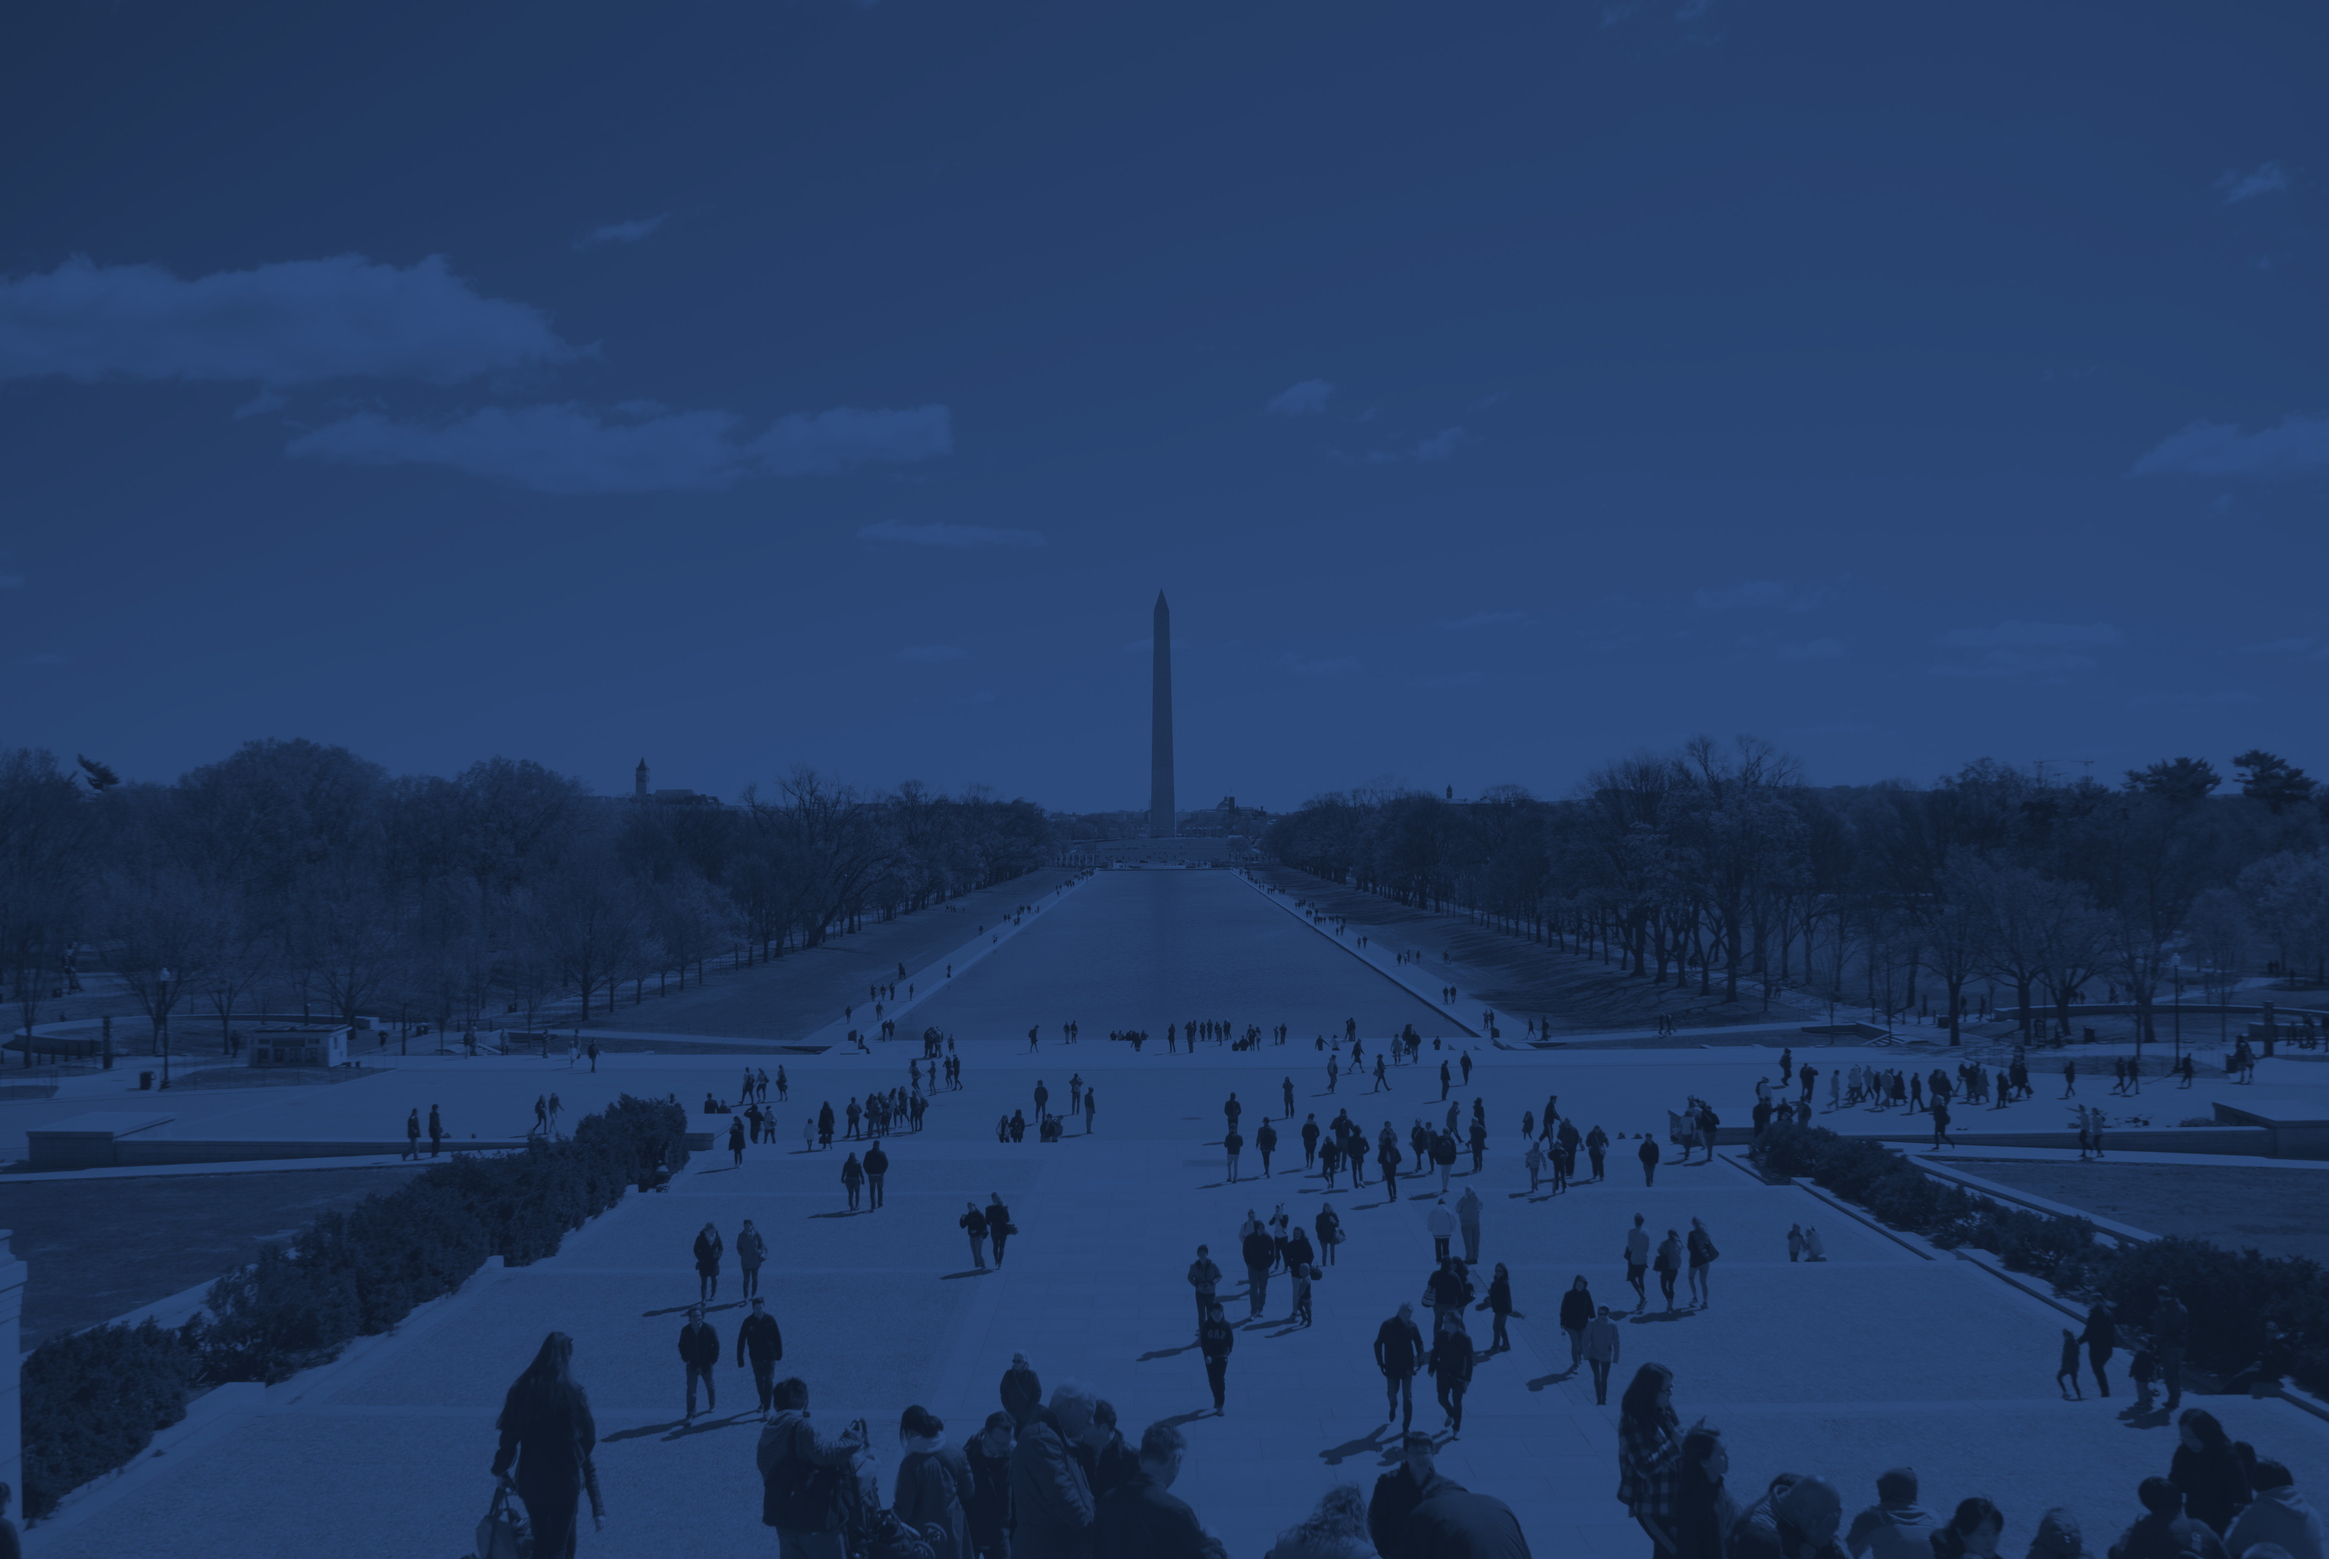
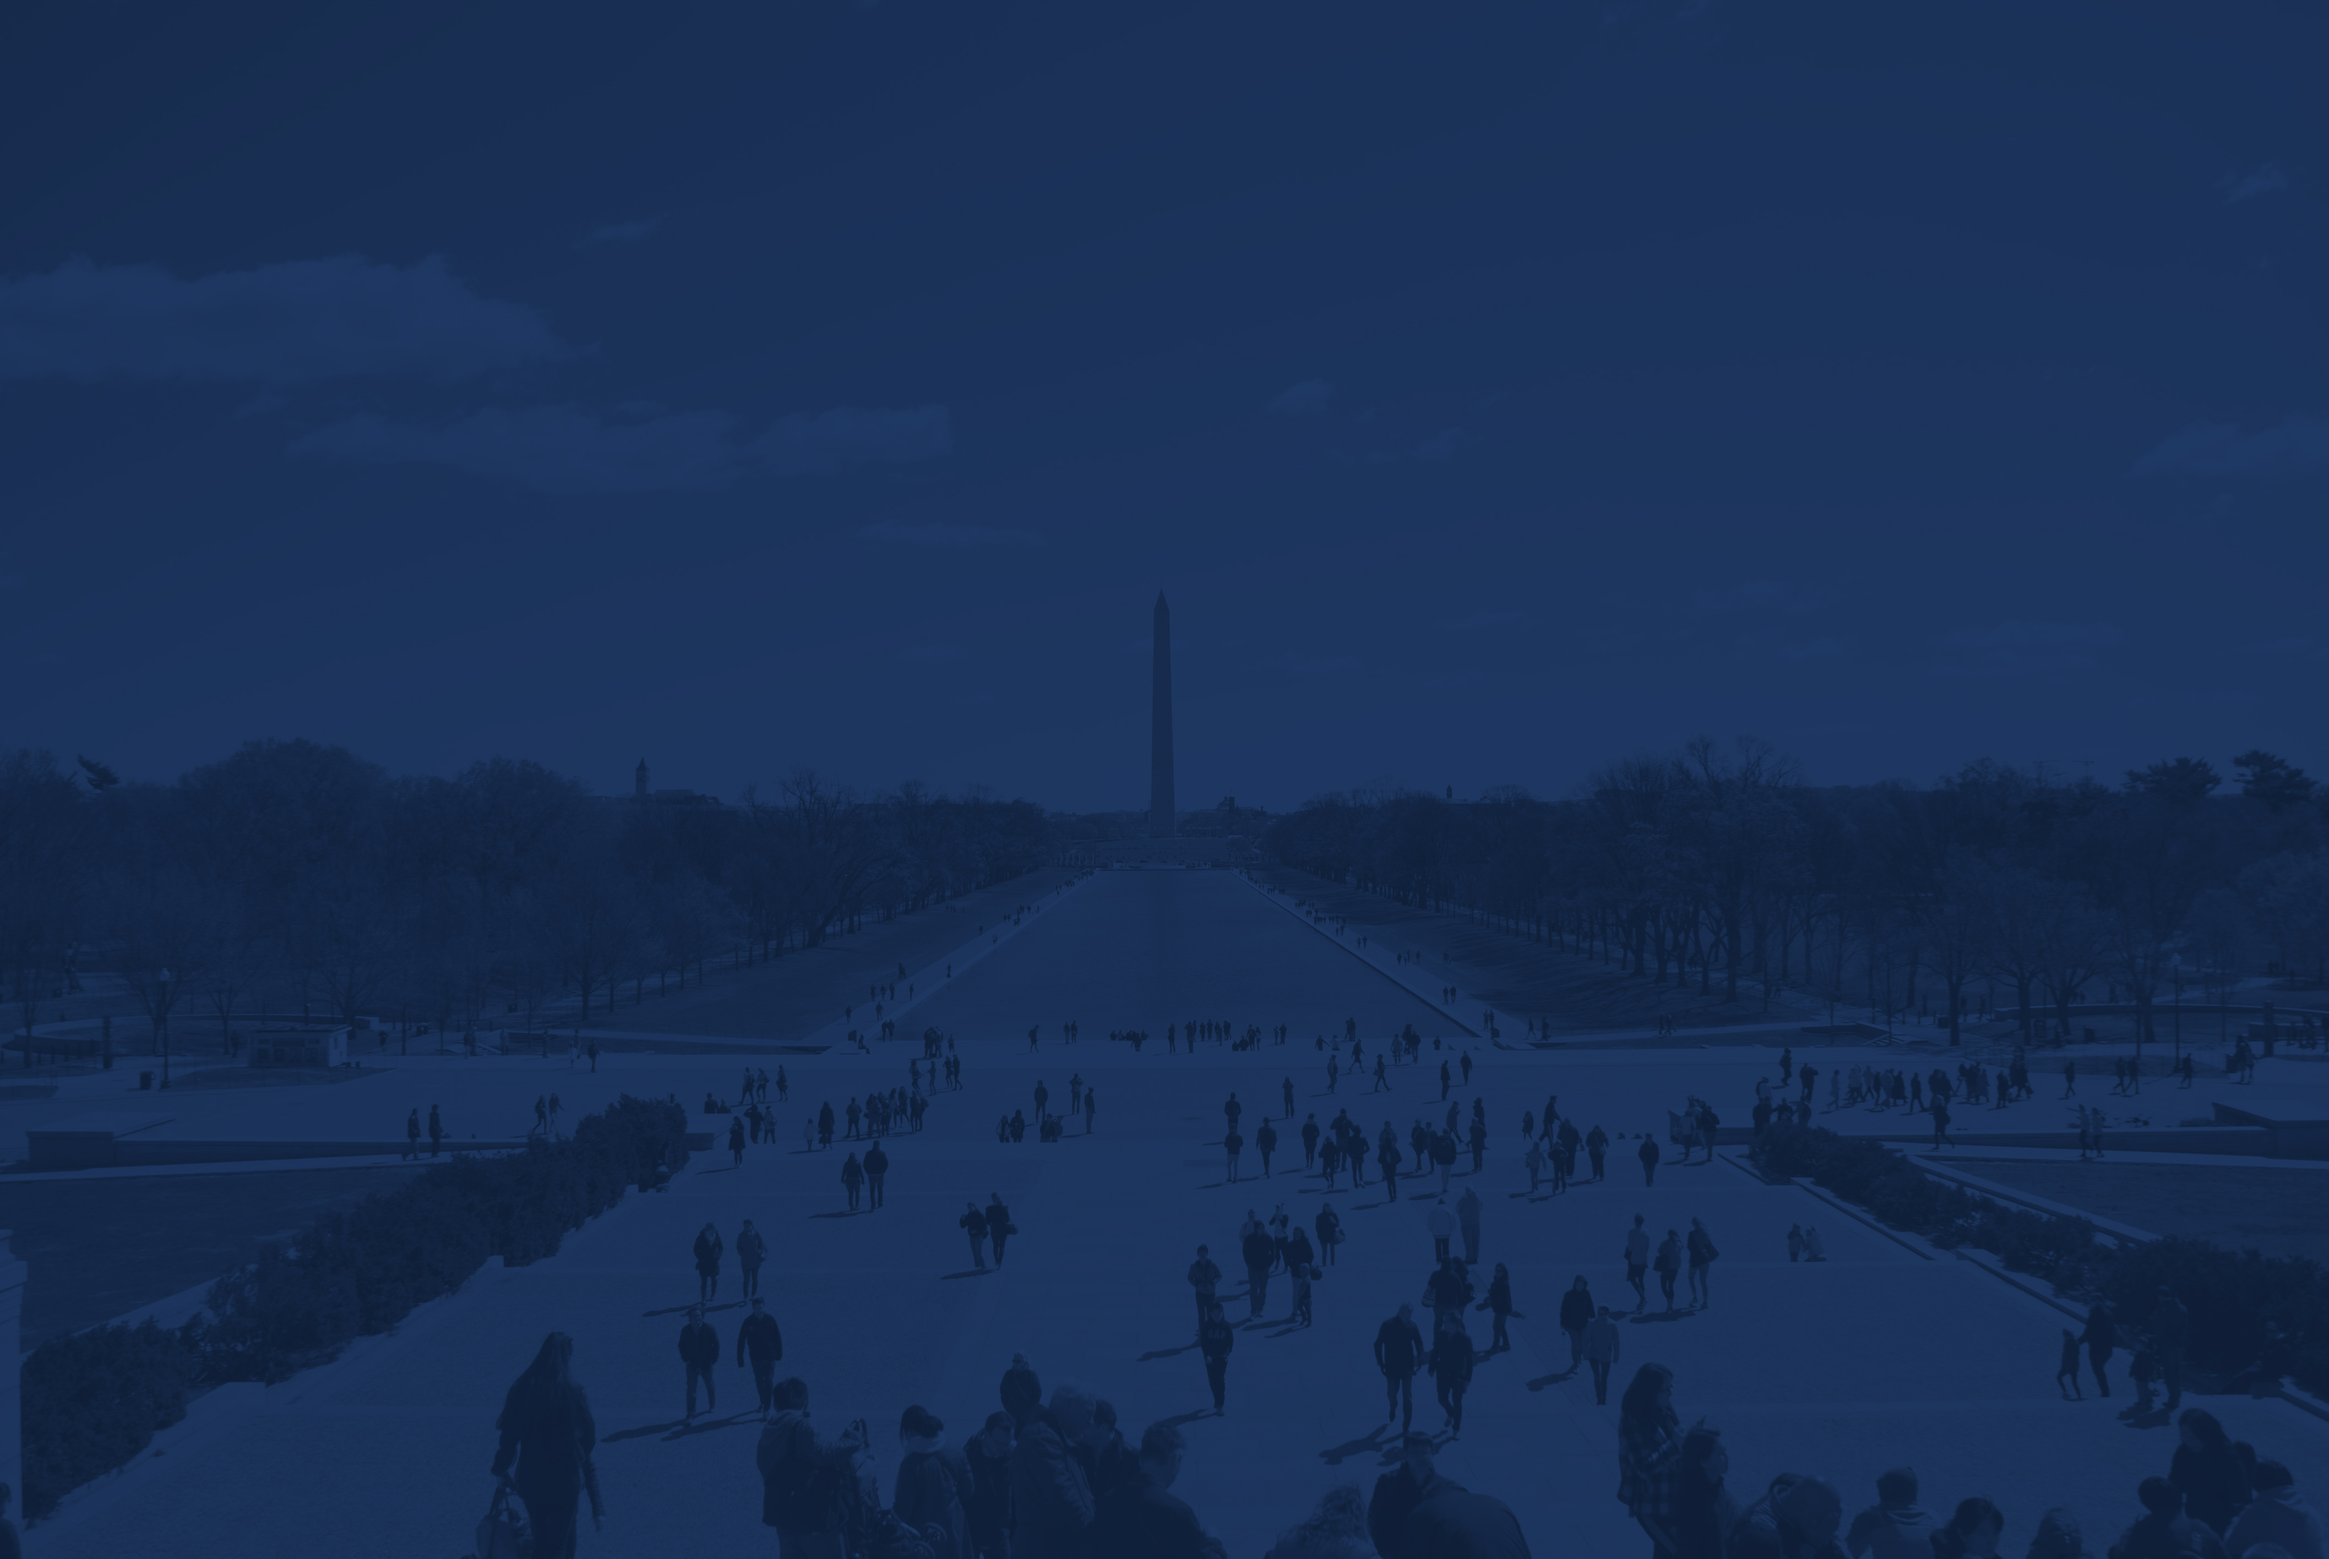
Updated content on About Page, Added Footer, Updated styles

diff --git a/client/css/styles.css b/client/css/styles.css
@@ -3,7 +3,35 @@
 body {
   background-color: #E8EDF1;
   font-family: 'Montserrat', 'Open Sans', sans-serif;
-  font-size: 14px;
+  font-size: 16px;
+  font-weight: normal;
+  -webkit-transition: all 1s easy-in-out;
+  transition: all 1s easy-in-out;
+}
+
+p {
+  line-height: 1.5em;
+  -webkit-transition: all 1s easy-in-out;
+  transition: all 1s easy-in-out;
+}
+
+a {
+  -webkit-transition: all 1s easy-in-out;
+  transition: all 1s easy-in-out;
+}
+
+.red {
+  color: #E53333;
+}
+
+.left {
+  float: left;
+  text-align: left;
+}
+
+.right {
+  float: right;
+  text-align: right;
 }
 
 /* SITE HEADER */
@@ -57,11 +85,10 @@ header {
 .nav li a {
   color: #fff;
   padding-bottom: 2px;
-  margin-top: -2px;
 }
 
 .nav li a:hover {
-  border-bottom: 3px solid #fff;
+  border-bottom: 3px solid #E53333;
   text-decoration: none;
 }
 
@@ -82,11 +109,14 @@ header {
 /* ABOUT */
 
 .splash-container {
+  display: table;
   width: 100%;
   height: 100vh;
   background-image: url('../images/monument.jpg');
+  background-attachment: fixed;
+  background-position: center;
+  background-repeat: no-repeat;
   background-size: cover;
-  display: table;
 }
 
 .intro-message {
@@ -97,7 +127,7 @@ header {
   letter-spacing: .5px;
   line-height: 1.65em;
   color: #fff;
-  padding: 0 50px;
+  padding: 0 100px;
 }
 
 .underline {
@@ -109,6 +139,7 @@ header {
   border: 3px solid #fff;
   text-transform: uppercase;
   letter-spacing: 1px;
+  font-size: 16px;
   text-align: center;
   margin-top: 50px;
   display: inline-block;
@@ -117,12 +148,119 @@ header {
 }
 
 .intro-message a:hover {
-  color: #2F4F84;
-  background-color: #fff;
+  color: #fff;
+  background-color: #E53333;
+  border-color: #E53333;
 }
 
 /* Section: Why */
 
+article {
+  width: 100%;
+  padding: 200px 80px;
+  background-color: #E8EDF1;
+}
+
+article h2 {
+  text-transform: uppercase;
+  font-size: 3em;
+  letter-spacing: .125em;
+  font-weight: bold;
+  margin-bottom: .5em;
+  color: #2F4F84;
+  display: block;
+  margin-top: 0;
+}
+
+article a {
+  color: #E53333;
+  text-decoration: none;
+}
+
+article a:hover {
+  -webkit-transition: all 1s easy-in-out;
+  transition: all 1s easy-in-out;
+  text-decoration: none;
+}
+
+article p {
+  font-size: 1.25em;
+  line-height: 1.65em;
+}
+
+article .article-image {
+  border-radius: 200px;
+  background-color: #fff;
+  width: 30%;
+  height: 300px;
+}
+
+article#why .article-image {
+  padding-left: 100px;
+}
+
 article#why {
-  height: 500px;
+
+}
+
+article#why h2 {
+  width: 30%;
+}
+
+article#why p {
+  //width: 90%;
+  //padding-right: 50px;
+  //position: absolute;
+}
+
+article#how {
+  padding-top: 100px;
+}
+
+article#how h2 {
+  text-align: center;
+  margin-bottom: 1.5em;
+  width: 100%;
+  clear: both;
+}
+
+article#how p {
+  //width: 86%;
+  //position: absolute;
+  //padding-left: 350px;
+}
+
+article#how .article-image {
+  display: table-cell;
+  width: 30%;
+  height: 200px;
+  margin-right: 50px;
+}
+
+article .step {
+  display: inline-block;
+  width: 100%;
+  min-height: 200px;
+  margin-bottom: 100px;
+}
+
+article .step .article-text {
+  width: auto;
+}
+
+article .article-text {
+  width: 65%;
+  vertical-align: middle;
+  padding-top: 2.5em;
+}
+
+/* FOOTER */
+
+footer {
+  padding: 20px;
+  width: 100%;
+  text-align: center;
+  font-size: .75em;
+  letter-spacing: .5px;
+  color: #BACAD9;
 }

diff --git a/client/templates/about.html b/client/templates/about.html
@@ -1,11 +1,41 @@
 <div class="splash-container">
   <div class="intro-message">
     <p>On February 26, the next Democratic National Committee chair will be chosen by 447 people. We are here to give a voice to the other 72 million Democrats. That means <span class="underline">you</span>.</p>
-    <a href="#why" role="button">Learn More</a>
+    <a href="#!/about#why" role="button">Learn More</a>
   </div>
 </div>
-<!-- Intro Paragraph -->
 <article id="why">
-  <h2>Lorem Ipsum</h2>
-  <p>Hello, world!</p>
+  <div class="article-image right">
+  </div>
+  <div class="article-text">
+    <h2>Why</h2>
+    <p>The DNC matters: its next chair is responsible for creating and executing on a plan for getting Democrats elected in the coming year. While new voter registration <a href="http://www.politico.com/story/2016/10/how-many-registered-voters-are-in-america-2016-229993" target="_blank">leans heavily Democratic</a>, the number of Democrats elected to office <a href="http://thehill.com/homenews/campaign/306736-dems-hit-new-low-in-state-legislatures" target="_blank">continues to decline</a>. We need to take back our party if we want to take back our country.</p>
+  </div>
+</article>
+<article id="how">
+  <h2>How</h2>
+  <div class="step">
+    <div class="article-image left">
+    </div>
+    <div class="article-text">
+      <h3>Step 1</h3>
+      <p>Start right now by lending your voice to the DNC chair elections.</p>
+    </div>
+  </div>
+  <div class="step">
+    <div class="article-image left">
+    </div>
+    <div class="article-text">
+      <h3>Step 2</h3>
+      <p>Check out the candidates and endorse a candidate.</p>
+    </div>
+  </div>
+  <div class="step">
+    <div class="article-image left">
+    </div>
+    <div class="article-text">
+      <h3>Step 3</h3>
+      <p>When you do, we will send an email to the electors that represent you, ensuring your voice is heard directly.</p>
+    </div>
+  </div>
 </article>

diff --git a/client/index.html b/client/index.html
@@ -15,7 +15,7 @@
       <header>
         <div class="title">
           <a href="/">
-            <h1>RUN-DNC</h1>
+            <h1>RUN<span class="red">-</span>DNC</h1>
           </a>
         </div>
         <div class="nav">
@@ -28,6 +28,9 @@
       </header>
       <ui-view></ui-view>
     </div>
+    <footer>
+      <p>Copyright 2017.</p>
+    </footer>
 
     <!--external javascript libraries -->
     <script src="https://ajax.googleapis.com/ajax/libs/angularjs/1.6.1/angular.min.js"></script>
